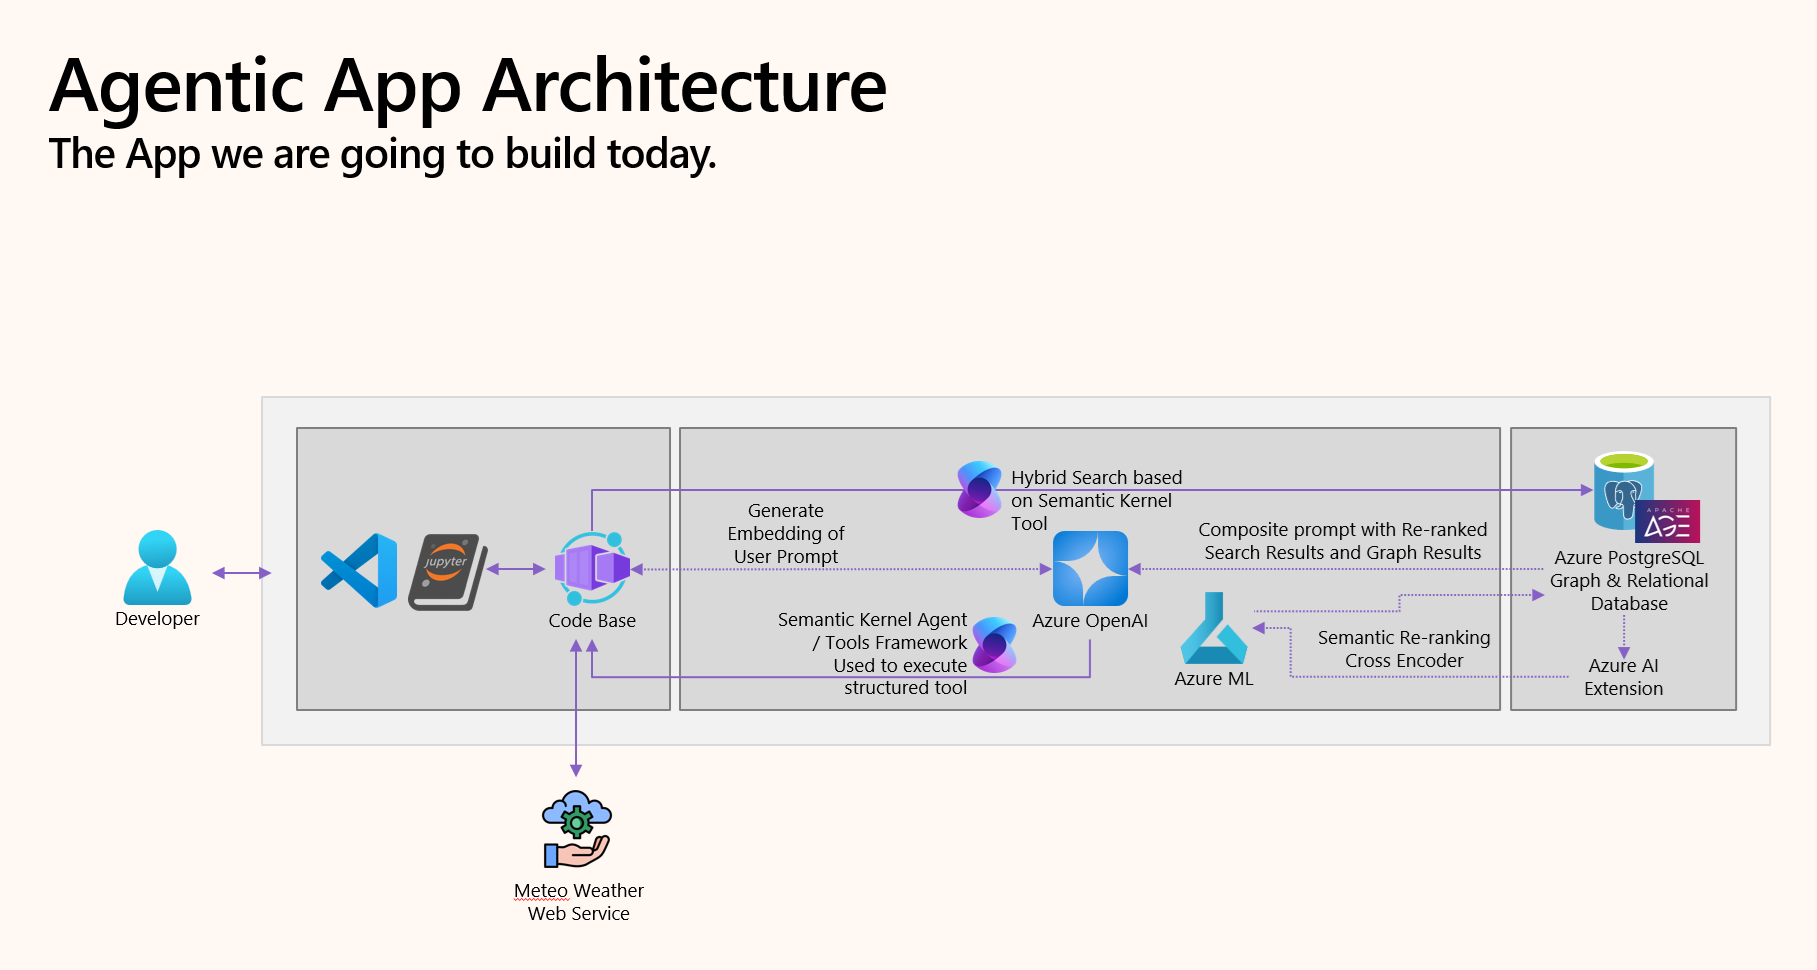
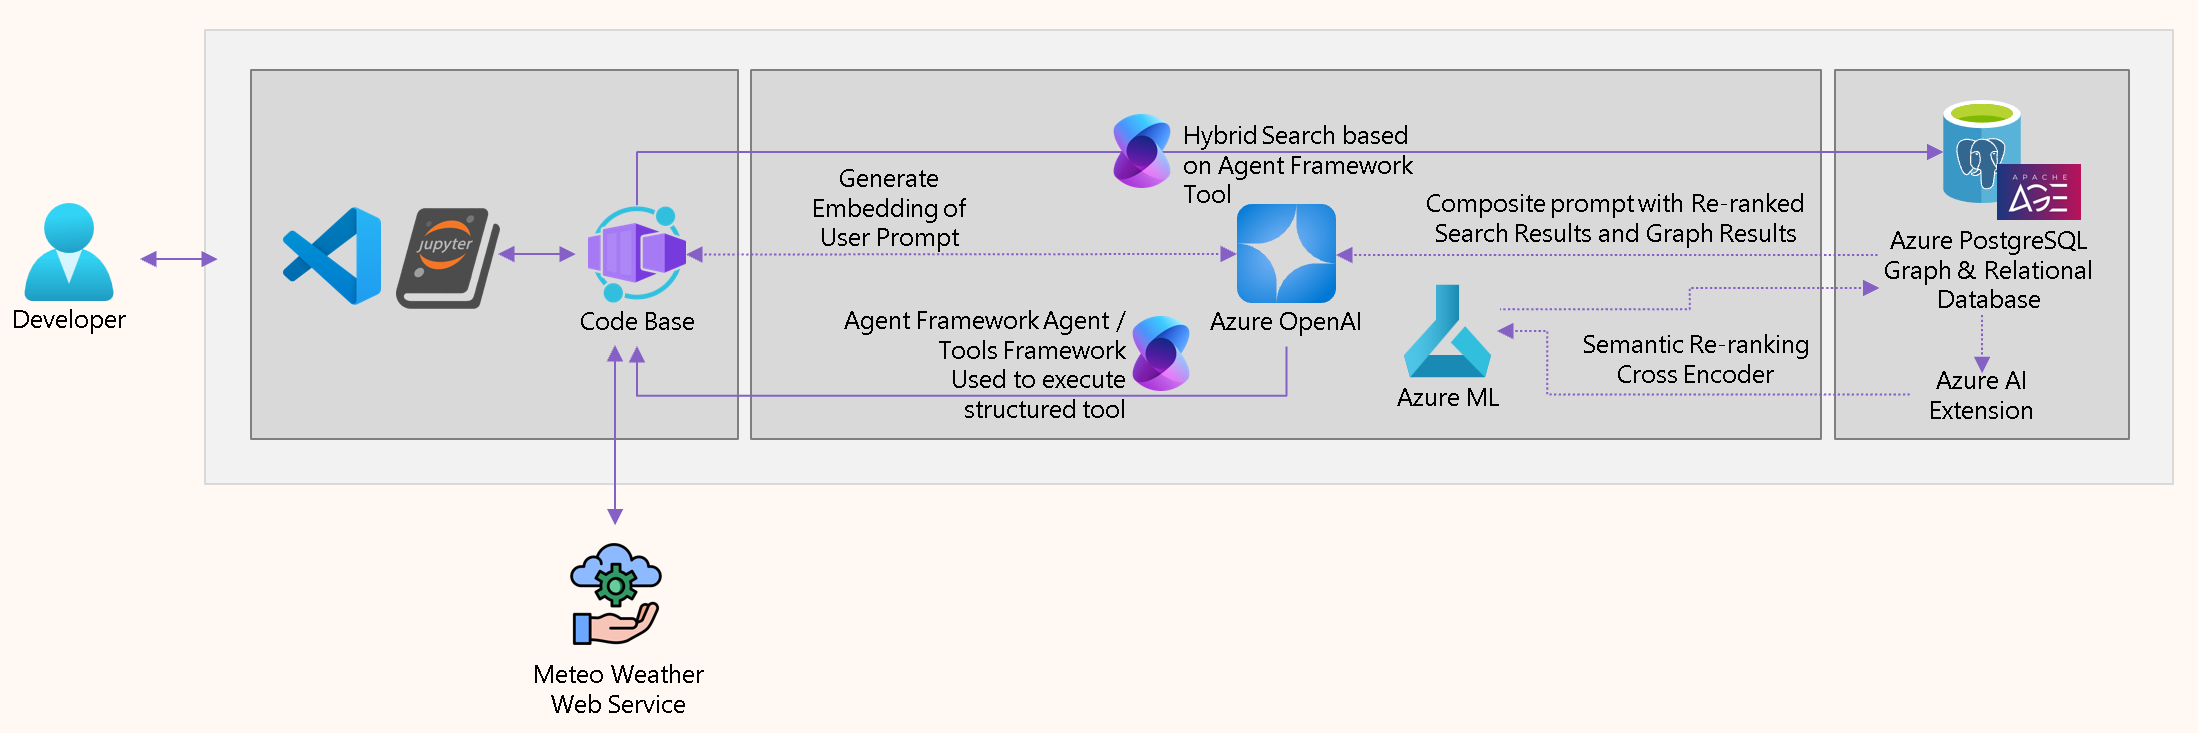
Changed README file and image

diff --git a/README.md b/README.md
@@ -11,7 +11,7 @@
 
 ### 🧠 Session Description
 
-In this hands-on lab, you’ll build an AI-powered legal research assistant that reasons over real-world case law data using PostgreSQL and Semantic Kernel.
+In this hands-on lab, you’ll build an AI-powered legal research assistant that reasons over real-world case law data using PostgreSQL and Microsoft Agent Framework.
 You’ll learn how to combine retrieval-augmented generation (RAG), vector search, and graph intelligence to develop an agentic workflow capable of generating accurate, contextual, and explainable answers — all running on Azure Database for PostgreSQL.
 
 ### 💡 Learning Outcomes
@@ -19,7 +19,7 @@ You’ll learn how to combine retrieval-augmented generation (RAG), vector searc
 By the end of this lab, you will be able to:
 
 - Configure Azure Database for PostgreSQL Flexible Server with AI extensions (`azure_ai`, `pgvector`, `diskann`, and `apache_age`)
-- Use Semantic Kernel to build autonomous agents with database and web plugins
+- Use Microsoft Agent Framework to build autonomous agents with database and web plugins
 - Implement semantic search and reranking using vector embeddings
 - Enhance reasoning quality using the GraphRAG pattern
 - Deploy your AI agent and supporting infrastructure on Azure using Bicep and CLI automation
@@ -27,7 +27,7 @@ By the end of this lab, you will be able to:
 ### 💻 Technologies Used
 
 1. Azure Database for PostgreSQL Flexible Server (with AI extensions)
-1. Semantic Kernel (for agent orchestration)
+1. Microsoft Agent Framework (for agent orchestration)
 1. Azure OpenAI Service (embeddings + LLM completions)
 1. Python (agent runtime and notebook execution)
 1. Apache `AGE` (for graph storage and reasoning)
@@ -37,11 +37,11 @@ By the end of this lab, you will be able to:
 ### 🏗 Architecture
 
 ```mathematica
- User Query → Semantic Kernel Agent → PostgreSQL (Vector + Graph + AI) → Azure OpenAI → Contextual Answer
+ User Query → Microsoft Agent Framework → PostgreSQL (Vector + Graph + AI) → Azure OpenAI → Contextual Answer
 ```
 ![Architecture](./Docs/images/arch.png)
 
-- Semantic Kernel Agent: Handles reasoning, plugin invocation, and dialogue context.
+- Microsoft Agent Framework: Handles reasoning, plugin invocation, and dialogue context.
 - PostgreSQL: Stores case law data, embeddings, and graph relationships.
 - GraphRAG: Uses Apache AGE to connect related entities and improve recall.
 - Azure OpenAI: Powers embeddings and completion for semantic responses.
@@ -59,7 +59,7 @@ By the end of this lab, you will be able to:
    - DiskANN indexing for fast vector similarity search
 
 3. **Building the Agent Application**:
-   - Setting up Semantic Kernel
+   - Setting up Microsoft Agent Framework
    - Creating database search plugins
    - Implementing semantic reranking
    - Adding external data sources
@@ -115,7 +115,6 @@ Open `Code/lab.ipynb` in Visual Studio Code and follow the guided steps to:
 |Azure AI Foundry Discord|https://aka.ms/azureaifoundrydiscord|Connect with the Azure AI Foundry team         |
 |Learn at Ignite         |https://aka.ms/LearnAtIgnite        |Continue learning on Microsoft Learn           |
 |GraphRAG for PostgreSQL |aka.ms/GraphRAG-PG                  |Learn how to add graph intelligence to Postgres|
-|Semantic Kernel Docs    |https://aka.ms/SemanticKernel       |Build your own AI agents with SK               |
 
 ## Content Owners
 
